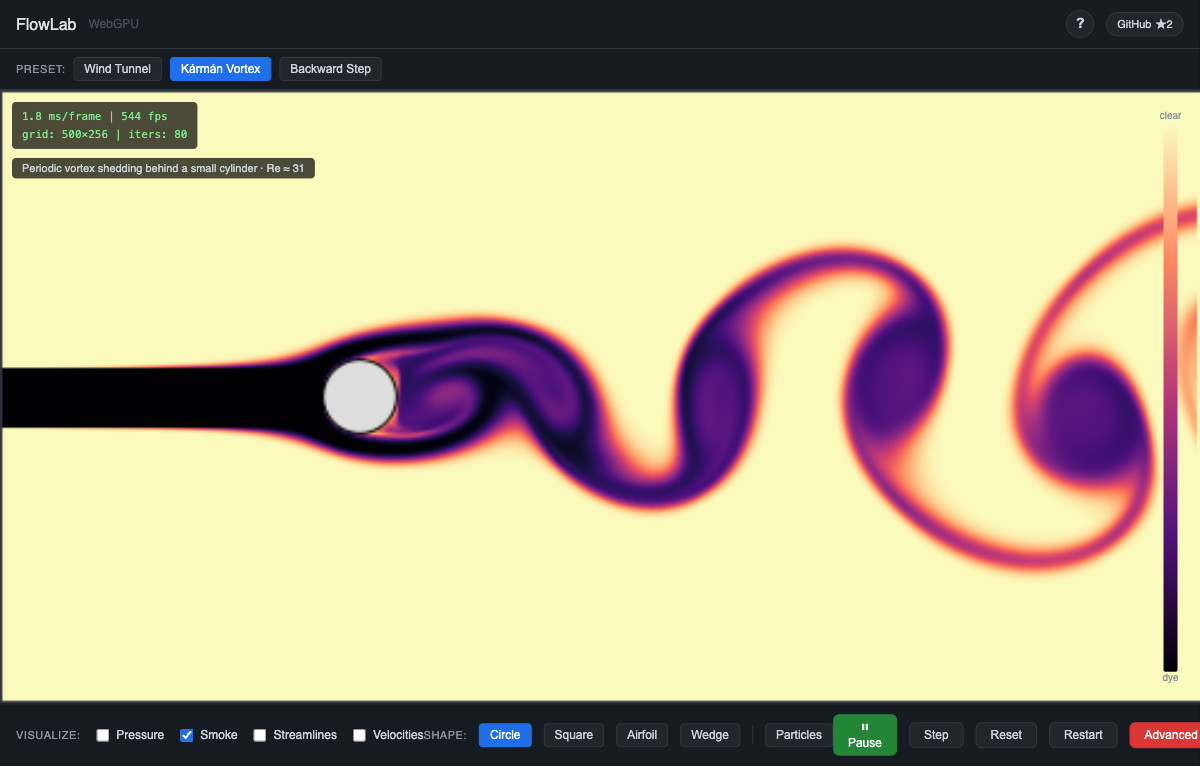
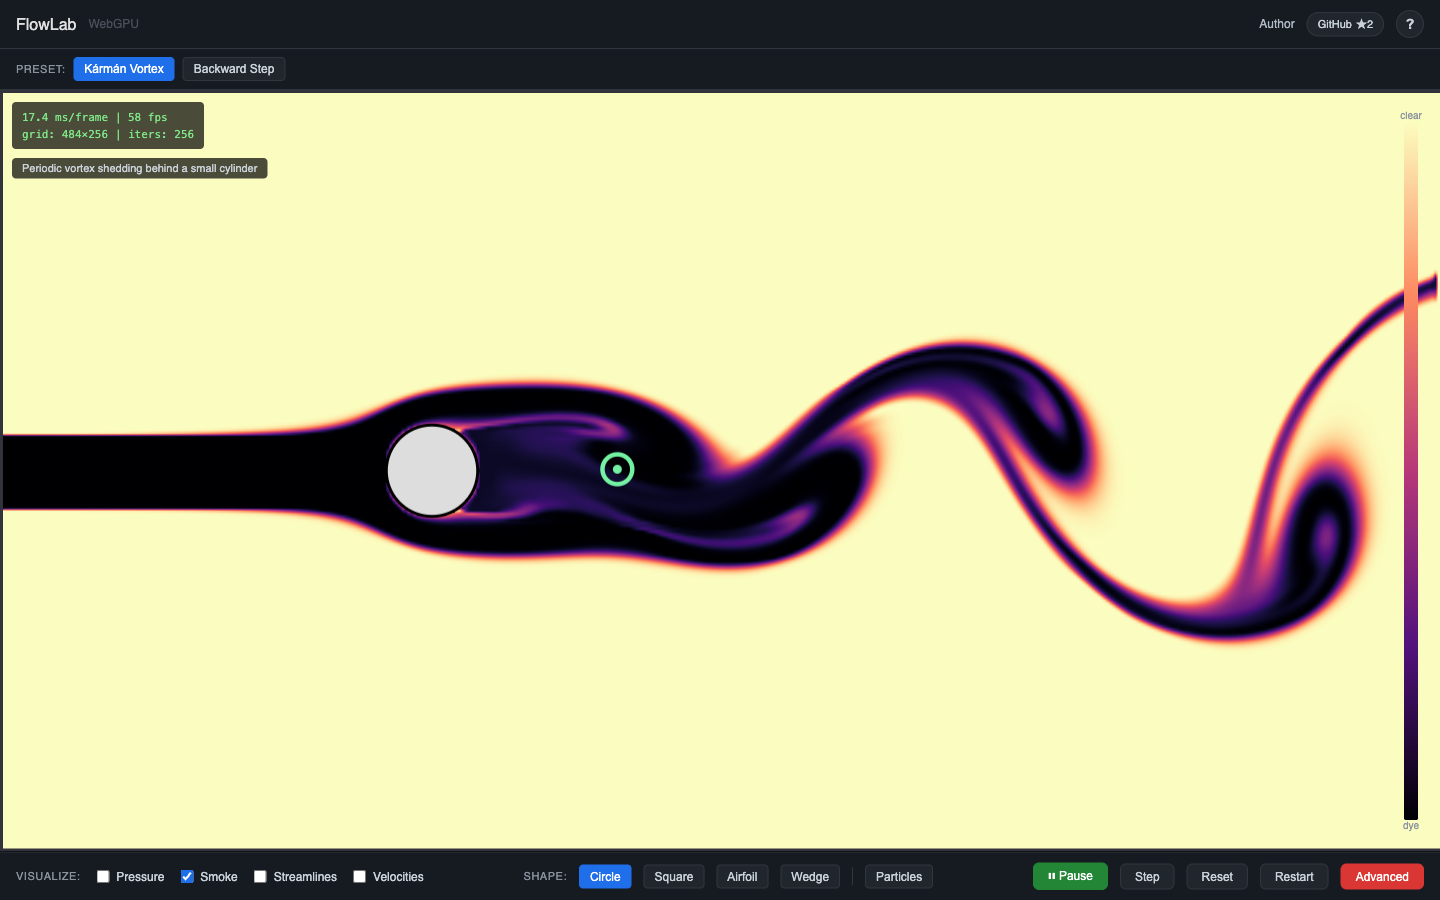
docs: refresh README screenshots — mature Kármán street + guide modal
Retire the outdated pressure-field capture; the second image is now the
guide overlay (with the Replay the Tour footer) over the live sim, and the
hero smoke shot is recaptured at 1440x900 with a fully developed street.

Changed region(s): [[0.0, 0.1802, 1.0, 0.9909], [0.0, 0.0, 1.0, 0.2402], [0.8633, 0.0, 0.9867, 0.0601]]

diff --git a/CLAUDE.md b/CLAUDE.md
@@ -67,7 +67,7 @@ ES modules are cached aggressively by browsers. The server includes `NoCacheMidd
 Use discrete buttons (not a range slider) for grid resolution tiers. A continuous slider fires `input` events during drag, each triggering expensive GPU buffer destruction/recreation. Discrete buttons fire once per click. Tiers: 64–1024 (1024 added with GPU field rendering).
 
 ### Screenshots
-`static/screenshots/` holds README images (karman-smoke, karman-pressure). `.gitignore` blocks `*.png` globally but has `!static/screenshots/*.png` exception.
+`static/screenshots/` holds README images (karman-smoke, guide). `.gitignore` blocks `*.png` globally but has `!static/screenshots/*.png` exception.
 
 ### Author Link
 Title bar includes an "Author" link to sagar-pal.dev — same pattern as the Gray-Scott sibling project. Order: Author | GitHub pill | Guide(?).

diff --git a/README.md b/README.md
@@ -12,9 +12,9 @@ Drag obstacles through the flow. Watch a vortex street form — and die when you
 
 </div>
 
-![Kármán vortex street — periodic vortex shedding behind a cylinder](static/screenshots/karman-smoke.png)
+![Kármán vortex street — periodic vortex shedding behind a cylinder, live on the GPU](static/screenshots/karman-smoke.png)
 
-![Pressure field — coolwarm colormap showing high and low pressure regions](static/screenshots/karman-pressure.png)
+![FlowLab Guide — built-in documentation with the Replay the Tour entry point](static/screenshots/guide.png)
 
 ## Features
 
